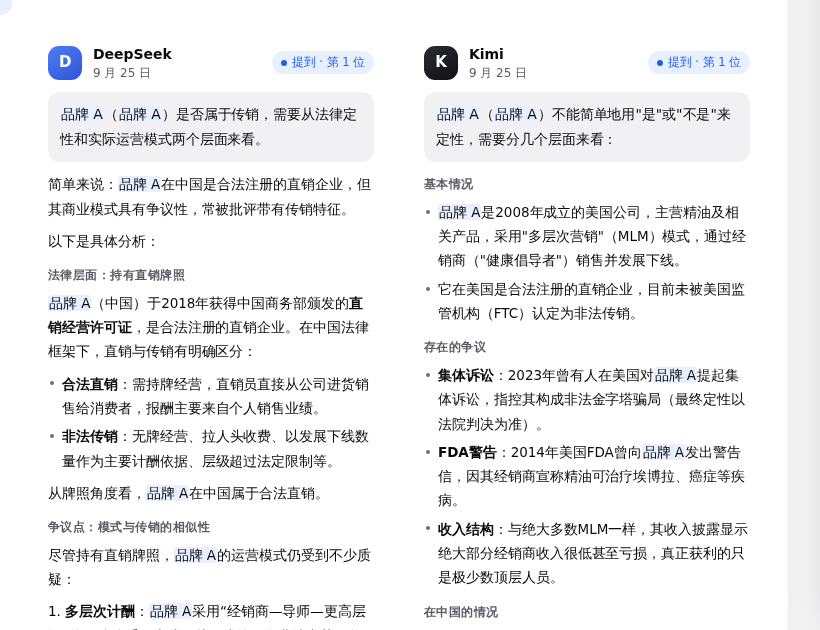
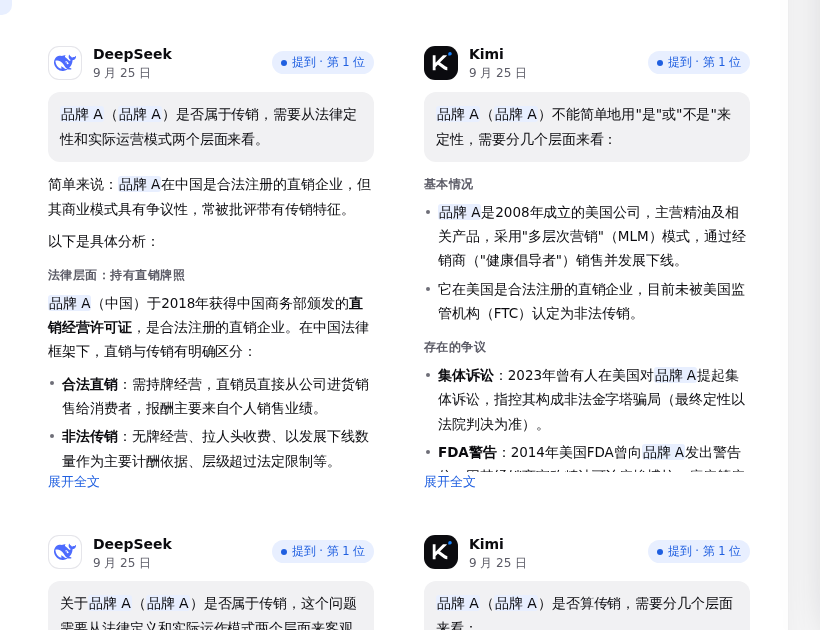
公开版回答卡：改用各模型官方图标做头像，取不到时回退字母方块
图标来自 @lobehub/icons-static-svg（MIT），内联进页面，不外链加载；Kimi 图标用黑底。

Claude-Session: https://claude.ai/code/session_01AZHCH7ZvrRaedxtdAM2JxU

diff --git a/index.html b/index.html
@@ -411,6 +411,9 @@ code{border-radius:5px}
 .resp .hd{display:flex;align-items:center;gap:11px;padding:14px 16px 10px;flex-wrap:wrap}
 .resp .hd b{font-size:14px}.resp .hd small{display:block;color:var(--muted);font-size:12px;line-height:1.3}
 .av{width:34px;height:34px;border-radius:11px;display:grid;place-items:center;color:#fff;font-weight:600;font-size:15px;flex:none;letter-spacing:-.02em;background:linear-gradient(145deg,#8a8a96,#5b5b66)}
+.av.logo{background:var(--surface);box-shadow:inset 0 0 0 1px var(--rule);padding:6px}
+.av.logo svg{width:100%;height:100%;display:block}
+.av.logo.kimi{background:#0b0b0f;box-shadow:none}
 .av.ds{background:linear-gradient(145deg,#4f7cf7,#2f55d4)}.av.km{background:linear-gradient(145deg,#2b2b33,#0f0f14)}.av.qw{background:linear-gradient(145deg,#8b6cf0,#6446d8)}.av.db{background:linear-gradient(145deg,#3fb7a6,#1f8d80)}
 .resp .verdict{margin-left:auto;display:flex;gap:6px;flex-wrap:wrap}
 .chip{font-size:11.5px;font-weight:500;border-radius:999px;padding:2px 9px;display:inline-flex;align-items:center;gap:5px;white-space:nowrap;background:var(--rule-soft);color:var(--muted)}
@@ -1057,8 +1060,18 @@ const pub = () => isPublicView();
 const plainQ = s => pub() ? String(s || '').replace(/[#*`]+/g, '').replace(/^\s*[-•]\s*/, '').trim() : String(s || '');
 /* 公开版：日期写成“9 月 25 日” */
 function dayText(s) { const m = /(\d{4})-(\d{2})-(\d{2})/.exec(String(s || '')); return m ? `${Number(m[2])} 月 ${Number(m[3])} 日` : String(s || ''); }
-/* 公开版：模型字母头像（D 蓝 / K 黑 / 千 紫 / 豆 青） */
+/* 公开版：各模型官方图标（来自 @lobehub/icons-static-svg，MIT；商标归各公司所有，只用于标识回答来自哪个模型），内联不外链。 */
+const ENGINE_LOGOS = {
+  deepseek: '<svg viewBox="0 0 24 24" aria-hidden="true"><path d="M23.748 4.482c-.254-.124-.364.113-.512.234-.051.039-.094.09-.137.136-.372.397-.806.657-1.373.626-.829-.046-1.537.214-2.163.848-.133-.782-.575-1.248-1.247-1.548-.352-.156-.708-.311-.955-.65-.172-.241-.219-.51-.305-.774-.055-.16-.11-.323-.293-.35-.2-.031-.278.136-.356.276-.313.572-.434 1.202-.422 1.84.027 1.436.633 2.58 1.838 3.393.137.093.172.187.129.323-.082.28-.18.552-.266.833-.055.179-.137.217-.329.14a5.526 5.526 0 01-1.736-1.18c-.857-.828-1.631-1.742-2.597-2.458a11.365 11.365 0 00-.689-.471c-.985-.957.13-1.743.388-1.836.27-.098.093-.432-.779-.428-.872.004-1.67.295-2.687.684a3.055 3.055 0 01-.465.137 9.597 9.597 0 00-2.883-.102c-1.885.21-3.39 1.102-4.497 2.623C.082 8.606-.231 10.684.152 12.85c.403 2.284 1.569 4.175 3.36 5.653 1.858 1.533 3.997 2.284 6.438 2.14 1.482-.085 3.133-.284 4.994-1.86.47.234.962.327 1.78.397.63.059 1.236-.03 1.705-.128.735-.156.684-.837.419-.961-2.155-1.004-1.682-.595-2.113-.926 1.096-1.296 2.746-2.642 3.392-7.003.05-.347.007-.565 0-.845-.004-.17.035-.237.23-.256a4.173 4.173 0 001.545-.475c1.396-.763 1.96-2.015 2.093-3.517.02-.23-.004-.467-.247-.588zM11.581 18c-2.089-1.642-3.102-2.183-3.52-2.16-.392.024-.321.471-.235.763.09.288.207.486.371.739.114.167.192.416-.113.603-.673.416-1.842-.14-1.897-.167-1.361-.802-2.5-1.86-3.301-3.307-.774-1.393-1.224-2.887-1.298-4.482-.02-.386.093-.522.477-.592a4.696 4.696 0 011.529-.039c2.132.312 3.946 1.265 5.468 2.774.868.86 1.525 1.887 2.202 2.891.72 1.066 1.494 2.082 2.48 2.914.348.292.625.514.891.677-.802.09-2.14.11-3.054-.614zm1-6.44a.306.306 0 01.415-.287.302.302 0 01.2.288.306.306 0 01-.31.307.303.303 0 01-.304-.308zm3.11 1.596c-.2.081-.399.151-.59.16a1.245 1.245 0 01-.798-.254c-.274-.23-.47-.358-.552-.758a1.73 1.73 0 01.016-.588c.07-.327-.008-.537-.239-.727-.187-.156-.426-.199-.688-.199a.559.559 0 01-.254-.078c-.11-.054-.2-.19-.114-.358.028-.054.16-.186.192-.21.356-.202.767-.136 1.146.016.352.144.618.408 1.001.782.391.451.462.576.685.914.176.265.336.537.445.848.067.195-.019.354-.25.452z" fill="#4D6BFE"></path></svg>',
+  kimi: '<svg viewBox="0 0 24 24" aria-hidden="true"><path d="M21.846 0a1.923 1.923 0 110 3.846H20.15a.226.226 0 01-.227-.226V1.923C19.923.861 20.784 0 21.846 0z" fill="#1783FF"></path><path d="M11.065 11.199l7.257-7.2c.137-.136.06-.41-.116-.41H14.3a.164.164 0 00-.117.051l-7.82 7.756c-.122.12-.302.013-.302-.179V3.82c0-.127-.083-.23-.185-.23H3.186c-.103 0-.186.103-.186.23V19.77c0 .128.083.23.186.23h2.69c.103 0 .186-.102.186-.23v-3.25c0-.069.025-.135.069-.178l2.424-2.406a.158.158 0 01.205-.023l6.484 4.772a7.677 7.677 0 003.453 1.283c.108.012.2-.095.2-.23v-3.06c0-.117-.07-.212-.164-.227a5.028 5.028 0 01-2.027-.807l-5.613-4.064c-.117-.078-.132-.279-.028-.381z" fill="#fff"></path></svg>',
+  qwen: '<svg viewBox="0 0 24 24" aria-hidden="true"><path d="M12.604 1.34c.393.69.784 1.382 1.174 2.075a.18.18 0 00.157.091h5.552c.174 0 .322.11.446.327l1.454 2.57c.19.337.24.478.024.837-.26.43-.513.864-.76 1.3l-.367.658c-.106.196-.223.28-.04.512l2.652 4.637c.172.301.111.494-.043.77-.437.785-.882 1.564-1.335 2.34-.159.272-.352.375-.68.37-.777-.016-1.552-.01-2.327.016a.099.099 0 00-.081.05 575.097 575.097 0 01-2.705 4.74c-.169.293-.38.363-.725.364-.997.003-2.002.004-3.017.002a.537.537 0 01-.465-.271l-1.335-2.323a.09.09 0 00-.083-.049H4.982c-.285.03-.553-.001-.805-.092l-1.603-2.77a.543.543 0 01-.002-.54l1.207-2.12a.198.198 0 000-.197 550.951 550.951 0 01-1.875-3.272l-.79-1.395c-.16-.31-.173-.496.095-.965.465-.813.927-1.625 1.387-2.436.132-.234.304-.334.584-.335a338.3 338.3 0 012.589-.001.124.124 0 00.107-.063l2.806-4.895a.488.488 0 01.422-.246c.524-.001 1.053 0 1.583-.006L11.704 1c.341-.003.724.032.9.34zm-3.432.403a.06.06 0 00-.052.03L6.254 6.788a.157.157 0 01-.135.078H3.253c-.056 0-.07.025-.041.074l5.81 10.156c.025.042.013.062-.034.063l-2.795.015a.218.218 0 00-.2.116l-1.32 2.31c-.044.078-.021.118.068.118l5.716.008c.046 0 .08.02.104.061l1.403 2.454c.046.081.092.082.139 0l5.006-8.76.783-1.382a.055.055 0 01.096 0l1.424 2.53a.122.122 0 00.107.062l2.763-.02a.04.04 0 00.035-.02.041.041 0 000-.04l-2.9-5.086a.108.108 0 010-.113l.293-.507 1.12-1.977c.024-.041.012-.062-.035-.062H9.2c-.059 0-.073-.026-.043-.077l1.434-2.505a.107.107 0 000-.114L9.225 1.774a.06.06 0 00-.053-.031zm6.29 8.02c.046 0 .058.02.034.06l-.832 1.465-2.613 4.585a.056.056 0 01-.05.029.058.058 0 01-.05-.029L8.498 9.841c-.02-.034-.01-.052.028-.054l.216-.012 6.722-.012z" fill="url(#lobe-icons-qwen-_R_0_)" fill-rule="nonzero"></path><defs><linearGradient id="lobe-icons-qwen-_R_0_" x1="0%" x2="100%" y1="0%" y2="0%"><stop offset="0%" stop-color="#6336E7" stop-opacity=".84"></stop><stop offset="100%" stop-color="#6F69F7" stop-opacity=".84"></stop></linearGradient></defs></svg>',
+  doubao: '<svg viewBox="0 0 24 24" aria-hidden="true"><path d="M5.31 15.756c.172-3.75 1.883-5.999 2.549-6.739-3.26 2.058-5.425 5.658-6.358 8.308v1.12C1.501 21.513 4.226 24 7.59 24a6.59 6.59 0 002.2-.375c.353-.12.7-.248 1.039-.378.913-.899 1.65-1.91 2.243-2.992-4.877 2.431-7.974.072-7.763-4.5l.002.001z" fill="#1E37FC"></path><path d="M22.57 10.283c-1.212-.901-4.109-2.404-7.397-2.8.295 3.792.093 8.766-2.1 12.773a12.782 12.782 0 01-2.244 2.992c3.764-1.448 6.746-3.457 8.596-5.219 2.82-2.683 3.353-5.178 3.361-6.66a2.737 2.737 0 00-.216-1.084v-.002z" fill="#37E1BE"></path><path d="M14.303 1.867C12.955.7 11.248 0 9.39 0 7.532 0 5.883.677 4.545 1.807 2.791 3.29 1.627 5.557 1.5 8.125v9.201c.932-2.65 3.097-6.25 6.357-8.307.5-.318 1.025-.595 1.569-.829 1.883-.801 3.878-.932 5.746-.706-.222-2.83-.718-5.002-.87-5.617h.001z" fill="#A569FF"></path><path d="M17.305 4.961a199.47 199.47 0 01-1.08-1.094c-.202-.213-.398-.419-.586-.622l-1.333-1.378c.151.615.648 2.786.869 5.617 3.288.395 6.185 1.898 7.396 2.8-1.306-1.275-3.475-3.487-5.266-5.323z" fill="#1E37FC"></path></svg>',
+  yuanbao: '<svg viewBox="0 0 24 24" aria-hidden="true"><path d="M7.063 1.664C5.198 3.338 4.395 6.67 5.782 8.568c1.47 2.014 4.79 1.745 6.953.113 2.434-1.84 6.033-1.793 7.23.953.91 2.207.067 4.927-2.113 6.483-4.302 3.097-10.577 2.52-13.472-1.444-2.86-3.915-1.35-9.696 2.683-13.011v.002z" fill="#fff"></path><path d="M12.007.647C5.384.647.015 5.734.015 12.007s5.369 11.36 11.992 11.36C18.631 23.366 24 18.28 24 12.006 24 5.732 18.631.647 12.007.647zm5.846 15.472C13.55 19.216 7.275 18.64 4.38 14.675 1.521 10.759 3.03 4.979 7.064 1.664 5.199 3.338 4.396 6.67 5.782 8.568c1.47 2.014 4.791 1.745 6.954.112 2.433-1.838 6.032-1.792 7.23.954.91 2.207.067 4.926-2.113 6.483v.002z" fill="#00CC70"></path><path d="M14.801 14.904a.669.669 0 01-.536-.269l-1.02-1.37a.67.67 0 01.006-.806l1.02-1.328a.668.668 0 011.059.815l-.712.925.72.963a.67.67 0 01-.535 1.066l-.002.004zm-3.931-2.001c0 1.797-.356 2.135-1.16 2.135-.806 0-1.162-.338-1.162-2.135 0-1.796.357-2.134 1.161-2.134.805 0 1.162.338 1.162 2.134h-.001z" fill="#1C1C1C"></path></svg>'
+};
+/* 公开版：模型头像。有官方图标的用图标（圆角方形、白底），没有的回退到字母方块（D 蓝 / K 黑 / 千 紫 / 豆 青）。 */
 function engAvatar(id, name) {
+  const lk = /deepseek/.test(id) ? 'deepseek' : /kimi/.test(id) ? 'kimi' : /qwen|千问/.test(id + name) ? 'qwen' : /yuanbao|元宝/.test(id + name) ? 'yuanbao' : /doubao|豆包/.test(id + name) ? 'doubao' : '';
+  if (lk && ENGINE_LOGOS[lk]) return `<span class="av logo ${lk}" aria-hidden="true">${ENGINE_LOGOS[lk]}</span>`;
   const k = /deepseek/.test(id) ? 'ds' : /kimi/.test(id) ? 'km' : /qwen|千问/.test(id + name) ? 'qw' : /doubao|豆包|yuanbao|元宝/.test(id + name) ? 'db' : 'x';
   const ch = { ds: 'D', km: 'K', qw: '千', db: '豆' }[k] || String(name || id).slice(0, 1).toUpperCase();
   return `<span class="av ${k}" aria-hidden="true">${esc(ch)}</span>`;
